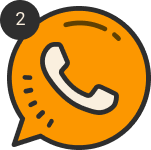
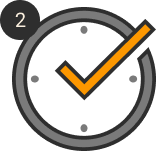
redesign

diff --git a/index.html b/index.html
@@ -61,21 +61,21 @@
             <div class="text-h3">3 простых шага для получения денег</div>
             <div class="row justify-content-center">
                 <div class="col-12 col-md-3 mt-60">
-                    <img src="img/icon1.png" class="image">
+                    <img src="img/icon1-v2.png" class="image">
                     <div class="text-h3 mt-30">Заполните заявку</div>
                 </div>
                 <div class="col">
                     <img src="img/arrow.png" style="margin-top:130px" class="image-a">
                 </div>
                 <div class="col-12 col-md-3 mt-60">
-                    <img src="img/icon2.png" class="image">
+                    <img src="img/icon2-v2.png" class="image">
                     <div class="text-h3 mt-30">Дождитесь<br>одобрения заявки</div>
                 </div>
                 <div class="col">
                     <img src="img/arrow.png" style="margin-top:130px"class="image-a">
                 </div>
                 <div class="col-12 col-md-3 mt-60">
-                    <img src="img/icon3.png" class="image">
+                    <img src="img/icon3-v2.png" class="image">
                     <div class="text-h3 mt-30">Получите деньги</div>
                 </div>
             </div>
@@ -90,17 +90,17 @@
             <div class="row justify-content-center">
                 <div class="col-12 col-md text-center hero2-card mt-60">
                     <div class="text-h3 mb-30">С любой кредитной историей</div>
-                    <img src="img/icon4.png" style="height: 110px">
+                    <img src="img/icon4-v2.png" style="height: 120px">
                     <div class="text-h4 mt-30">Получите деньги вне зависисти от вашей кредитной истории</div>
                 </div>
                 <div class="col-12 col-md text-center hero2-card mt-60">
                     <div class="text-h3 mb-30">Без справок и поручителей</div>
-                    <img src="img/icon5.png" style="height: 110px">
+                    <img src="img/icon5-v2.png" style="height: 120px; margin-left:20px">
                     <div class="text-h4 mt-30">Минимум документов для заключения договора</div>
                 </div>
                 <div class="col-12 col-md text-center hero2-card mt-60">
                     <div class="text-h3 mb-30">Без скрытых платежей</div>
-                    <img src="img/icon6.png" style="height: 110px">
+                    <img src="img/icon6-v2.png" style="height: 120px; margin-left:35px">
                     <div class="text-h4 mt-30">Прозрачные условия получения займа</div>
                 </div>
             </div>
@@ -115,15 +115,15 @@
             <div class="row justify-content-center">
                 <div class="col-12 col-md-9 col-lg-4 text-center mt-60">
                     <img src="img/card1.png" class="w-100">
-                    <div class="text-h3 mb-30 card-title">С любой кредитной историей</div>
+                    <div class="text-h3 mb-30 card-title">Займы под залог автомобиля</div>
                 </div>
                 <div class="col-12 col-md-9 col-lg-4 text-center mt-60">
                     <img src="img/card2.png" class="w-100">
-                    <div class="text-h3 mb-30 card-title">Без справок и поручителей</div>
+                    <div class="text-h3 mb-30 card-title">Займы под залог ПТС</div>
                 </div>
                 <div class="col-12 col-md-9 col-lg-4 text-center mt-60">
                     <img src="img/card3.png" class="w-100">
-                    <div class="text-h3 mb-30 card-title">Без скрытых платежей</div>
+                    <div class="text-h3 mb-30 card-title">Займы под залог недвижимсоти</div>
                 </div>
             </div>
         </div>
@@ -169,7 +169,6 @@
         </div>
     </div>
     <script>
-
         /**
          * @return {boolean}
          */

diff --git a/css/index.css b/css/index.css
@@ -153,6 +153,7 @@ input{
 .card-title{
     background: #FC9700;
     padding: 15px 50px;
+    min-height: 102px;
 }
 .hero3{
     background: url("../img/hero3.png");
